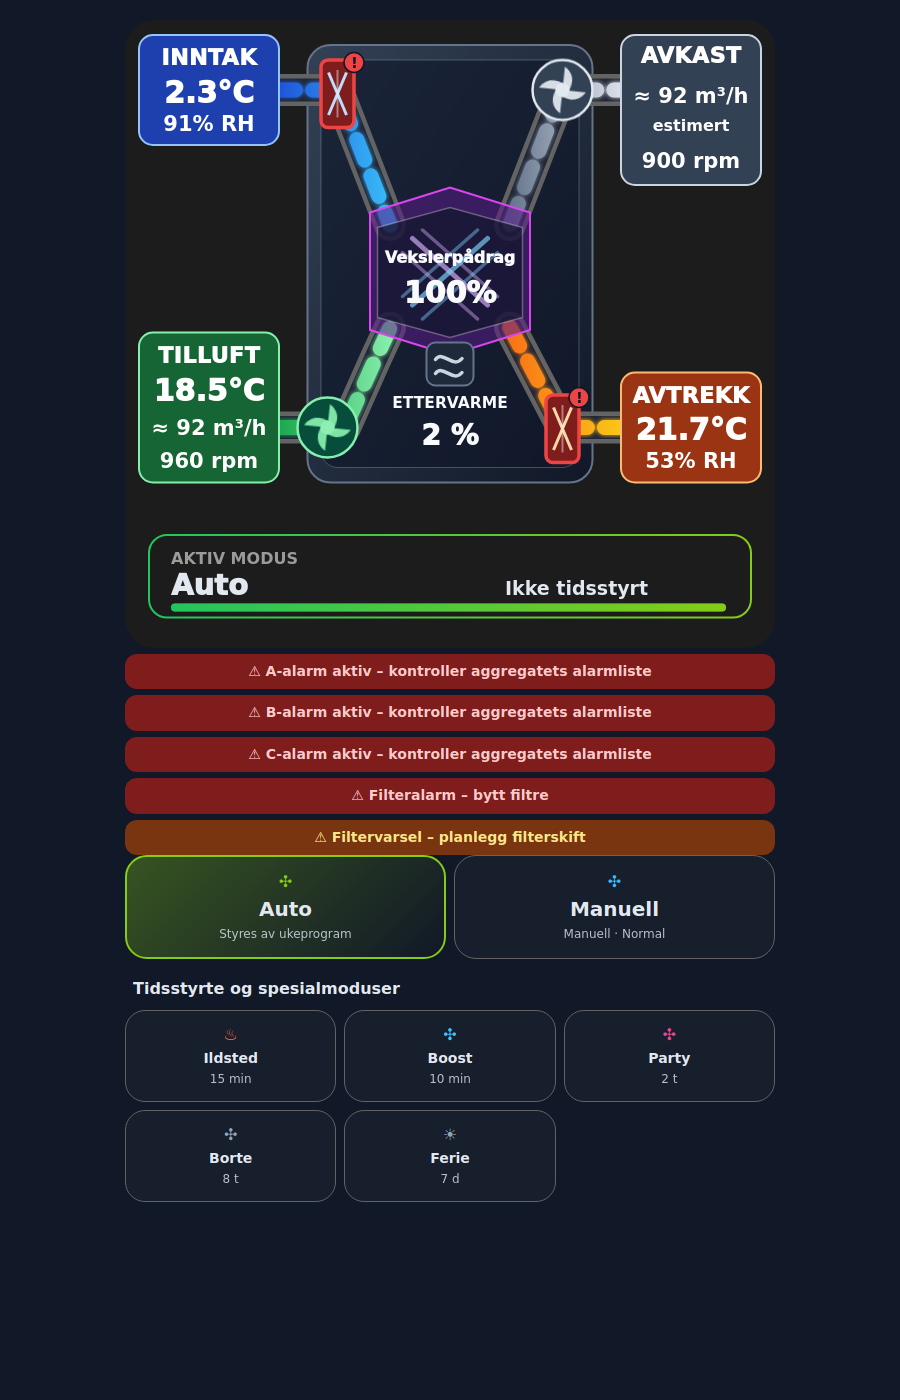
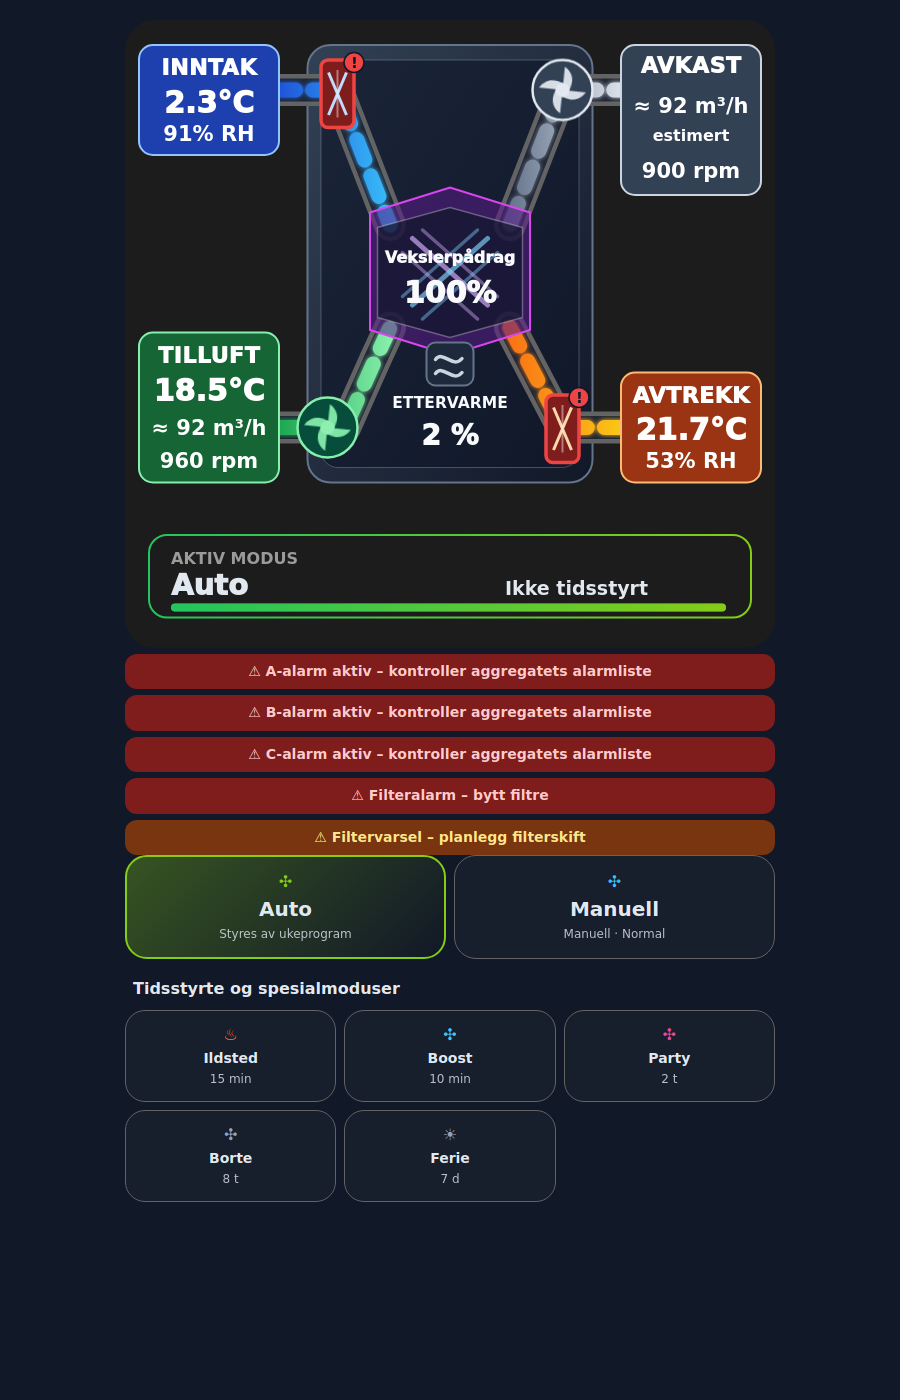
Align Inntak and Avkast with the unit top in VSR300 Cards 1.1.5

Changed region(s): [[0.6844, 0.0, 0.84, 0.1536], [0.1556, 0.0, 0.3111, 0.1229]]

diff --git a/vsr300-cards.js b/vsr300-cards.js
@@ -1,4 +1,4 @@
-/* VSR300 custom cards · version 1.1.4 · 2026-11-02
+/* VSR300 custom cards · version 1.1.5 · 2026-11-02
  * SPDX-License-Identifier: MIT
  * Copyright (c) 2026 stboee
  * Based on Systemair SVG / Kontrollpanel 4.8.1.
@@ -8,7 +8,7 @@
  */
 (() => {
   'use strict';
-  const VERSION = '1.1.4';
+  const VERSION = '1.1.5';
   const FIELD = (key, label, domain, defaultId, extra = {}) => ({ key, label, domain, defaultId, ...extra });
   const SVG_FIELDS = [
     FIELD('mode', 'Rapportert driftsmodus', 'sensor', 'sensor.systemair_save_modus'),
@@ -480,10 +480,10 @@ const heaterFill = !ettervarmeKnown ? '#854d0e' : ettervarmeActive ? '#991b1b' :
 
         <!-- Paint port panels over duct ends so values stay unobscured. -->
         <g class="air-info">
-          <rect x="28" y="-220" width="280" height="220" rx="28" fill="#1e40af" stroke="#93c5fd" stroke-width="4" />
-          <text x="168" y="-160" text-anchor="middle" class="label port-text">INNTAK</text>
-          <text x="168" y="-85" text-anchor="middle" class="value port-text">${uteT}</text>
-          <text x="168" y="-29" text-anchor="middle" class="small port-text">${uteRh}</text>
+          <rect class="intake-info" x="28" y="-200" width="280" height="220" rx="28" fill="#1e40af" stroke="#93c5fd" stroke-width="4" />
+          <text x="168" y="-140" text-anchor="middle" class="label port-text">INNTAK</text>
+          <text x="168" y="-65" text-anchor="middle" class="value port-text">${uteT}</text>
+          <text x="168" y="-9" text-anchor="middle" class="small port-text">${uteRh}</text>
 
           <rect class="supply-info" x="28" y="375" width="280" height="300" rx="28" fill="#166534" stroke="#86efac" stroke-width="4" />
           <text x="168" y="435" text-anchor="middle" class="label port-text">TILLUFT</text>
@@ -491,11 +491,11 @@ const heaterFill = !ettervarmeKnown ? '#854d0e' : ettervarmeActive ? '#991b1b' :
           <text x="168" y="580" text-anchor="middle" class="small port-text">${tilluftFlow}</text>
           <text x="168" y="645" text-anchor="middle" class="small port-text supply-rpm">${tilluftRpm}</text>
 
-          <rect class="exhaust-info" x="992" y="-220" width="280" height="300" rx="28" fill="#334155" stroke="#cbd5e1" stroke-width="4" />
-          <text x="1132" y="-165" text-anchor="middle" class="label port-text">AVKAST</text>
-          <text x="1132" y="-85" text-anchor="middle" class="small port-text">${avkastFlow}</text>
-          <text x="1132" y="-29" text-anchor="middle" class="micro port-text">estimert</text>
-          <text x="1132" y="46" text-anchor="middle" class="small port-text extract-rpm">${avtrekkRpm}</text>
+          <rect class="exhaust-info" x="992" y="-200" width="280" height="300" rx="28" fill="#334155" stroke="#cbd5e1" stroke-width="4" />
+          <text x="1132" y="-145" text-anchor="middle" class="label port-text">AVKAST</text>
+          <text x="1132" y="-65" text-anchor="middle" class="small port-text">${avkastFlow}</text>
+          <text x="1132" y="-9" text-anchor="middle" class="micro port-text">estimert</text>
+          <text x="1132" y="66" text-anchor="middle" class="small port-text extract-rpm">${avtrekkRpm}</text>
 
           <rect class="extract-info" x="992" y="455" width="280" height="220" rx="28" fill="#9a3412" stroke="#fdba74" stroke-width="4" />
           <text x="1132" y="515" text-anchor="middle" class="label port-text">AVTREKK</text>

diff --git a/README.md b/README.md
@@ -2,7 +2,7 @@
 
 Two Home Assistant cards for Systemair SAVE VSR300: **Systemair SVG** and
 **Systemair Kontrollpanel**, with graphical entity selection. Current card
-version: **1.1.4**. Reference setup: HA 2026.10.2 and
+version: **1.1.5**. Reference setup: HA 2026.10.2 and
 [Howard systemair_modbus 1.3.0](https://github.com/Howard0000/home-assistant-systemair-modbus).
 
 [Norsk veiledning](README.nb.md)
@@ -23,7 +23,7 @@ same cards are loaded only once. Keep the existing card configurations.
 
 1. Download [vsr300-cards.js](vsr300-cards.js) using GitHub's **Download raw file** button.
 2. Copy it to `/config/www/vsr300/vsr300-cards.js` in Home Assistant. Create the `vsr300` folder if needed.
-3. Add a dashboard resource with URL **`/local/vsr300/vsr300-cards.js?v=1.1.4`** and type **JavaScript module**.
+3. Add a dashboard resource with URL **`/local/vsr300/vsr300-cards.js?v=1.1.5`** and type **JavaScript module**.
 4. Fully reload the browser, edit the dashboard and add **Systemair SVG** and **Systemair Kontrollpanel** from the card picker.
 
 ## Configure both cards
@@ -56,7 +56,7 @@ When upgrading from 1.0.0, select the optional **A-alarm**, **B-alarm** and
 ## Options and displayed values
 
 - The outer cockpit background and mode panel follow the active Home Assistant theme. The unit and heat exchanger retain a dark appearance with light text in both light and dark themes. Air-port and alarm colours retain their meaning.
-- Fan RPM is shown in the taller Tilluft and Avkast information boxes. Tilluft, Avtrekk and the unit share one bottom edge. Heater percentage is enlarged; Vekslerpådrag appears on one line. Filter symbols and warning badges remain visible without separate FILTER captions.
+- Fan RPM is shown in the taller Tilluft and Avkast information boxes. Inntak and Avkast align with the unit top; Tilluft, Avtrekk and the unit share one bottom edge. Heater percentage is enlarged; Vekslerpådrag appears on one line. Filter symbols and warning badges remain visible without separate FILTER captions.
 - Animations: **På** (default), **Auto – følg enheten**, or **Av**. On animates even when the device requests reduced motion; Auto follows that preference.
 - Headings are hidden by default. Enable **Vis overskrift** to show a custom heading.
 - Remaining mode time counts down locally each second between integration reports and resynchronises with new reports. This is a display estimate; the active mode continues to come from the integration.

diff --git a/README.nb.md b/README.nb.md
@@ -1,7 +1,7 @@
 # VSR300 Cards – installasjon
 
 To Home Assistant-kort for Systemair SAVE VSR300: **Systemair SVG** og
-**Systemair Kontrollpanel**, med grafisk valg av entiteter. Kortversjon: **1.1.4**.
+**Systemair Kontrollpanel**, med grafisk valg av entiteter. Kortversjon: **1.1.5**.
 Referanseoppsettet er HA 2026.10.2 og
 [Howard systemair_modbus 1.3.0](https://github.com/Howard0000/home-assistant-systemair-modbus).
 
@@ -21,7 +21,7 @@ Ved overgang fra manuell installasjon erstatter du den gamle ressursen
 
 1. Last ned [vsr300-cards.js](vsr300-cards.js) med GitHubs **Download raw file**-knapp.
 2. Kopier filen til `/config/www/vsr300/vsr300-cards.js` i Home Assistant. Opprett mappen `vsr300` ved behov.
-3. Legg til en dashboardressurs med URL **`/local/vsr300/vsr300-cards.js?v=1.1.4`** og type **JavaScript-modul**.
+3. Legg til en dashboardressurs med URL **`/local/vsr300/vsr300-cards.js?v=1.1.5`** og type **JavaScript-modul**.
 4. Last nettlesersiden helt på nytt. Rediger dashboardet og legg til **Systemair SVG** og **Systemair Kontrollpanel** fra kortvelgeren.
 
 ## Oppsett av begge kort
@@ -54,7 +54,7 @@ Ved oppdatering fra 1.0.0 velger du de valgfrie **A-alarm**, **B-alarm** og
 ## Valg og verdier
 
 - Bakgrunnen rundt aggregatet og modusfeltet følger det aktive HA-temaet. Aggregat og veksler har mørke flater med lys tekst i både lyst og mørkt tema. Luftportenes og alarmenes farger beholder betydningen.
-- Viftenes rpm står i høyere informasjonsbokser for Tilluft og Avkast. Tilluft, Avtrekk og aggregatet har felles underkant. Ettervarmeprosenten er større, og Vekslerpådrag står på én linje. Filtersymboler og varselmerker beholdes uten separate FILTER-tekster.
+- Viftenes rpm står i høyere informasjonsbokser for Tilluft og Avkast. Inntak og Avkast flukter med aggregatets overkant; Tilluft, Avtrekk og aggregatet har felles underkant. Ettervarmeprosenten er større, og Vekslerpådrag står på én linje. Filtersymboler og varselmerker beholdes uten separate FILTER-tekster.
 - Animasjoner: **På** (standard), **Auto – følg enheten** eller **Av**. På animerer også når enheten ber om redusert bevegelse; Auto følger enhetens valg.
 - Overskrifter er skjult som standard. **Vis overskrift** aktiverer egen overskrift.
 - Resttid telles ned lokalt hvert sekund mellom integrasjonens rapporteringer og synkroniseres med nye rapporter. Dette er en beregnet visning; aktiv modus kommer fortsatt fra integrasjonen.

diff --git a/VERIFIKASJON.md b/VERIFIKASJON.md
@@ -1,6 +1,17 @@
-# Verifikasjon – 1.1.4 – 2026-11-02
+# Verifikasjon – 1.1.5 – 2026-11-02
 
-## Gjennomført lokalt for 1.1.4
+## Gjennomført lokalt for 1.1.5
+
+- 14 simulerte nettlesergrupper er bestått. Lys mobilvisning og mørk
+  desktopvisning er gjennomgått visuelt.
+- Toppjustering av Inntak, Avkast og aggregatets ytterramme er kontrollert i
+  rendret SVG ved 360, 412 og 900 px. Bunnjusteringen fra 1.1.4 videreføres.
+- Boksene og deres tekst flyttes samlet. Høyder, bredder, tekststørrelser,
+  linjeavstand, luftveier, entitetskoblinger og betjening beholdes.
+- Endringen gjelder bare presentasjon. Ingen installasjon, tjenestekall eller
+  Modbus-trafikk foretas mot brukerens miljø.
+
+## Historisk kontrollgrunnlag – 1.1.4, 2026-11-02
 
 - 14 simulerte nettlesergrupper er bestått. Lys mobilvisning og mørk
   desktopvisning er gjennomgått visuelt.
@@ -155,8 +166,8 @@ spesifisert dekning av alle kontroller, editorvalg eller signalkombinasjoner.
 
 ## Publiseringskontroll og gjenstående arbeid
 
-1.1.4 bunnjusterer Tilluft-boksen og dokumenterer HACS-ruten som prosjekteieren
-har tatt i bruk. Tidligere kortfunksjoner og entitetskoblinger videreføres. Komplette eksempler, dokumentasjonslenker og
+1.1.5 toppjusterer Inntak og Avkast. Bunnjusteringen, HACS-veiledningen,
+tidligere kortfunksjoner og entitetskoblinger videreføres. Komplette eksempler, dokumentasjonslenker og
 pakkens sjekksummer kontrolleres før publisering. MIT-lisensen beholdes uendret.
 
 Full gjennomgang av HAs grafiske editor, entitetsbytte og modusbetjening

diff --git a/SOURCES.md b/SOURCES.md
@@ -20,6 +20,8 @@ fit its single-line title; the airflow paths and data bindings are unchanged.
 Version 1.1.4, 2026-11-02, aligns the lower information panels with the unit
 shell and documents HACS as a custom-repository installation route following
 the maintainer's report that HACS installation and updates work.
+Version 1.1.5, 2026-11-02, aligns Inntak and Avkast with the unit's top edge
+without changing their dimensions, font sizes or data bindings.
 
 The initial entity names are configuration presets from the maintainer's HA
 installation. They are not credentials, recorded operating data or universal

diff --git a/CHANGELOG.md b/CHANGELOG.md
@@ -1,5 +1,12 @@
 # Changelog
 
+## 1.1.5 — 2026-11-02
+
+- Align Inntak and Avkast with the upper edge of the unit shell, moving each
+  panel and its labels together. Keep panel sizes, fonts and line spacing.
+- Preserve the bottom alignment of Tilluft, Avtrekk and the unit, the existing
+  airflow paths and all card behaviour. Refresh the simulated screenshots.
+
 ## 1.1.4 — 2026-11-02
 
 - Raise the Tilluft information box to align its bottom edge with Avtrekk and

diff --git a/ENTITETSKART.md b/ENTITETSKART.md
@@ -1,4 +1,4 @@
-# Entitetskart – custom cards 1.1.4
+# Entitetskart – custom cards 1.1.5
 
 Startkoblingene er eksempler fra referanseoppsettet. Brukeren må kontrollere alle
 koblinger i begge kort og endre dem til tilsvarende entiteter i sin egen
